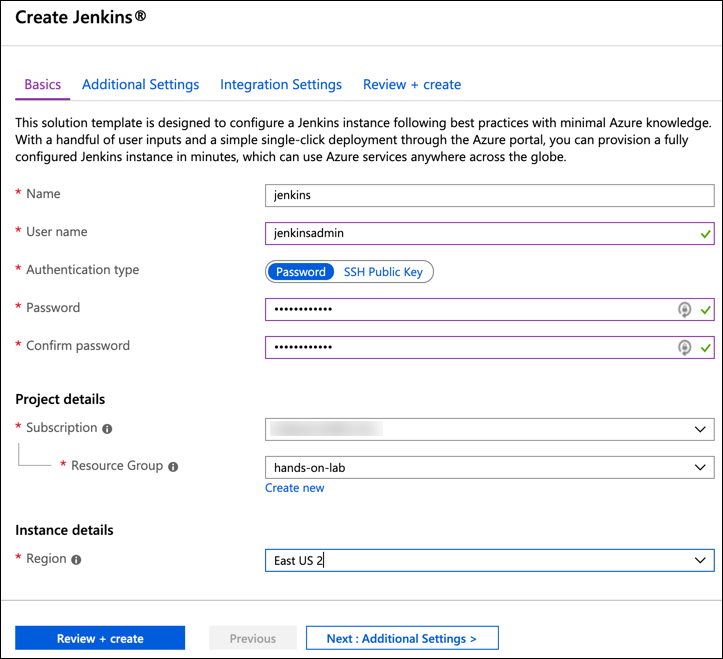
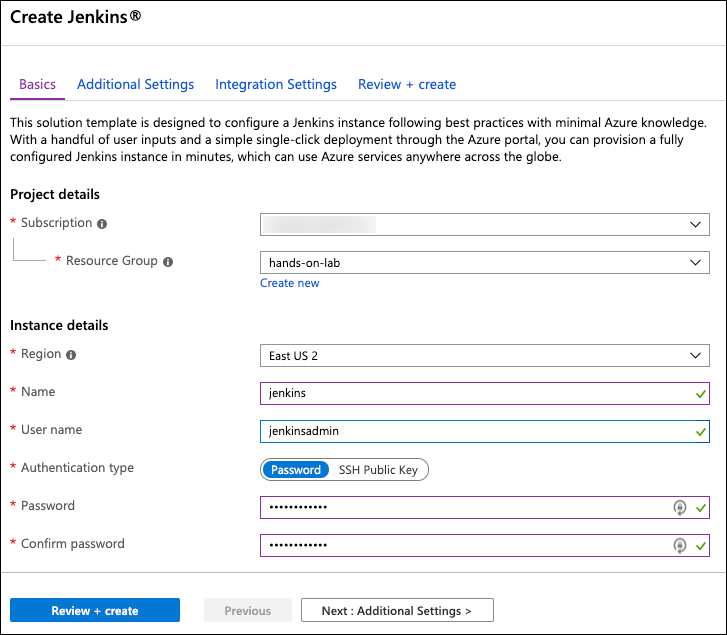
Jenkins pipeline updates

diff --git a/Hands-on lab/HOL step-by step - OSS PaaS and DevOps.md b/Hands-on lab/HOL step-by step - OSS PaaS and DevOps.md
@@ -9,7 +9,7 @@ Hands-on lab step-by-step
 </div>
 
 <div class="MCWHeader3">
-August 2019
+September 2019
 </div>
 
 Information in this document, including URL and other Internet Web site references, is subject to change without notice. Unless otherwise noted, the example companies, organizations, products, domain names, e-mail addresses, logos, people, places, and events depicted herein are fictitious, and no association with any real company, organization, product, domain name, e-mail address, logo, person, place or event is intended or should be inferred. Complying with all applicable copyright laws is the responsibility of the user. Without limiting the rights under copyright, no part of this document may be reproduced, stored in or introduced into a retrieval system, or transmitted in any form or by any means (electronic, mechanical, photocopying, recording, or otherwise), or for any purpose, without the express written permission of Microsoft Corporation.
@@ -52,12 +52,12 @@ Microsoft and the trademarks listed at <https://www.microsoft.com/en-us/legal/in
     - [Task 1: Provision Web App for Containers](#task-1-provision-web-app-for-containers)
     - [Task 2: Navigate to the deployed app](#task-2-navigate-to-the-deployed-app)
   - [Exercise 5: Configure CI/CD pipeline](#exercise-5-configure-cicd-pipeline)
-    - [Task 1: Prepare GitHub account for service integrations](#task-1-prepare-github-account-for-service-integrations)
-    - [Task 2: Open connection to Jenkins](#task-2-open-connection-to-jenkins)
-    - [Task 3: Configure Continuous Integration with Jenkins](#task-3-configure-continuous-integration-with-jenkins)
-    - [Task 4: Trigger CI build](#task-4-trigger-ci-build)
-    - [Task 5: Install Docker on the Jenkins VM](#task-5-install-docker-on-the-jenkins-vm)
-    - [Task 6: Add an Azure service principal for Jenkins](#task-6-add-an-azure-service-principal-for-jenkins)
+    - [Task 1: Enable Continuous Deployment on Web App](#task-1-enable-continuous-deployment-on-web-app)
+    - [Task 2: Prepare GitHub account for service integrations](#task-2-prepare-github-account-for-service-integrations)
+    - [Task 3: Open connection to Jenkins](#task-3-open-connection-to-jenkins)
+    - [Task 4: Configure Continuous Integration with Jenkins](#task-4-configure-continuous-integration-with-jenkins)
+    - [Task 5: Trigger CI build](#task-5-trigger-ci-build)
+    - [Task 6: Install Docker on the Jenkins VM](#task-6-install-docker-on-the-jenkins-vm)
     - [Task 7: Add continuous delivery to Jenkins build job](#task-7-add-continuous-delivery-to-jenkins-build-job)
     - [Task 8: Trigger CI-CD pipeline](#task-8-trigger-ci-cd-pipeline)
   - [Exercise 6: Create Azure Functions for order processing](#exercise-6-create-azure-functions-for-order-processing)
@@ -856,7 +856,17 @@ Duration: 60 minutes
 
 In this exercise, you are going to use Jenkins to implement a continuous integration (CI) and continuous delivery (CD) pipeline to deploy the containerized MERN app to Web App for Containers in Azure.
 
-### Task 1: Prepare GitHub account for service integrations
+### Task 1: Enable Continuous Deployment on Web App
+
+In this task, you will turn Continuous Deployment on for your Web App.
+
+1. Return to your Web App blade in the Azure portal, select **Container settnigs** from the left-hand menu, and then select **On** under Continuous Deployment.
+
+    ![The Web App blade is displayed, with Container settings selected and highlighted on the left, the On button for Continuous Deployment selected and highlighted, and the Save button highlighted.](media/web-app-continuous-deployment.png "Continuous Deployment")
+
+2. Select **Save**.
+
+### Task 2: Prepare GitHub account for service integrations
 
 In this task, you will be adding a Jenkins service integration into your GitHub account. This integration will enable a Jenkins CI build job to be triggered when code is checked in to your GitHub repository.
 
@@ -956,7 +966,7 @@ In this task, you will be adding a Jenkins service integration into your GitHub 
 
 23. The GitHub side of the integration with Jenkins is complete. Next, you will configure Jenkins as part of your CI/CD pipeline.
 
-### Task 2: Open connection to Jenkins
+### Task 3: Open connection to Jenkins
 
 In this task, you will create an SSH tunnel to the Jenkins server, and configure the Jenkins server for use with the MERN application.
 
@@ -1053,7 +1063,7 @@ In this task, you will create an SSH tunnel to the Jenkins server, and configure
 
     ![This is a screenshot of the Save (selected) and Apply buttons.](media/jenkins-global-tool-configuration-save.png "Select Save")
 
-### Task 3: Configure Continuous Integration with Jenkins
+### Task 4: Configure Continuous Integration with Jenkins
 
 In this task, you will set up a simple Jenkins continuous integration (CI) pipeline, which will build the `MCW-OSS-PaaS-and-DevOps` application with every code commit into GitHub.
 
@@ -1102,7 +1112,7 @@ In this task, you will set up a simple Jenkins continuous integration (CI) pipel
 
 10. Your Jenkins CI build job should now be triggered whenever a push is made to your repository.
 
-### Task 4: Trigger CI build
+### Task 5: Trigger CI build
 
 In this task you will commit your pending changes in VS Code to you GitHub repo, and trigger the Jenkins CI build job.
 
@@ -1138,7 +1148,7 @@ In this task you will commit your pending changes in VS Code to you GitHub repo,
 
 9. You have successfully set up your CI pipeline.
 
-### Task 5: Install Docker on the Jenkins VM
+### Task 6: Install Docker on the Jenkins VM
 
 In this task, you will install Docker CE on your Jenkins VM, so it can be used to build images from the build artifacts produced by your CI build.
 
@@ -1227,132 +1237,64 @@ In this task, you will install Docker CE on your Jenkins VM, so it can be used t
     service jenkins restart
     ```
 
-### Task 6: Add an Azure service principal for Jenkins
-
-In this task, you will use the Azure CLI to create an Azure Active Directory (Azure AD) application and service principal (SP) that will provide the Jenkins CD pipeline access to Azure resources. You will grant the SP permissions to the hands-on-lab-SUFFIX resource group.
-
-1. In the [Azure portal](https://portal.azure.com), select the **Cloud Shell** icon in the top toolbar.
-
-    ![The Cloud Shell icon is highlighted on the Azure toolbar.](media/azure-toolbar-cloud-shell.png "Azure Toolbar")
-
-2. Select **PowerShell** in the Cloud Shell pane.
-
-    ![PowerShell is highlighted in the Cloud Shell pane.](media/cloud-shell-powershell.png "Cloud Shell")
-
-3. Next, you will issue a command to create a service principal named **best-for-you-app** and assign it contributor permissions to your **hands-on-lab-SUFFIX** resource group. The command will be in the following format:
-
-    ```bash
-    az ad sp create-for-rbac -n "best-for-you-app" --role contributor --scopes /subscriptions/{SubID}/resourceGroups/{ResourceGroupName}
-    ```
-
-    > **Note**: You will need to replace the `{SubID}` and `{ResourceGroupName}` values.
-
-4. To retrieve the values you need to replace above, navigate to **Resource groups** in the Azure navigation menu, enter "hands-on-lab-SUFFIX" into the filter box, and select the hands-on-lab-SUFFIX resource group from the list.
-
-5. On your hands-on-lab-SUFFIX blade, you will copy two values to paste into the command above:
-
-    - **Resource group name**: Copy the resource group name (hands-on-lab-SUFFIX) and paste it into the command in place of `{ResourceGroupName}`.
-    - **Subscription ID**: In the Essentials area of the Overview blade, locate the Subscription ID, then copy and paste the value into the command in place of the `{SubID}` value.
-
-    ![On the Overview blade of the resource group, Subscription ID is highlighted.](media/resource-group-overview-subscription-id.png "Resource group overview blade")
-
-6. Copy and paste the updated `az ad sp create-for-rbac` command at the Cloud Shell prompt and press `Enter`. The command should be similar to the following, with your subscription ID and resource group name:
-
-    ```bash
-    az ad sp create-for-rbac -n "best-for-you-app" --role contributor --scopes /subscriptions/30fc406c-c745-XXXX-XXXX-XXXXXXXXXXXX/resourceGroups/hands-on-lab-SUFFIX
-    ```
-
-    ![The az ad sp create-for-rbac command is entered into the Cloud Shell, and the output of the command is displayed.](media/azure-cli-create-sp.png "Azure CLI")
-
-7. Copy the output from the command into a text editor, as you will need it in the next task. The output should be similar to:
-
-    ```json
-    {
-        "appId": "24c91e7d-4568-4f48-bca5-af3fc75e5481",
-        "displayName": "best-for-you-app",
-        "name": "http://best-for-you-app",
-        "password": "389bbb6f-731a-449a-a438-65a0f485ec8b",
-        "tenant": "9c37bff0-cd20-XXXX-XXXX-XXXXXXXXXXXX"
-    }
-    ```
-
-8. To verify the role assignment, select **Access control (IAM)** from the left-hand menu of the **hands-on-lab-SUFFIX** resource group blade, and then select the **Role assignments** tab and locate **best-for-you-app** under the CONTRIBUTOR role.
-
-    ![The Role assignments tab is displayed, with best-for-you-app highlighted under CONTRIBUTOR in the list.](media/rg-hands-on-lab-role-assignments.png "Role assignments")
-
 ### Task 7: Add continuous delivery to Jenkins build job
 
 In this task, you will use the [Azure App Service Jenkins plugin](https://plugins.jenkins.io/azure-app-service) to add continuous deployment (CD) to the Jenkins build pipeline. This will use a post-build action to create a new Docker image from the build, push that image to your Azure Container Registry, and deploy the image to your Web App for Containers instance. This post-build action will run under the credentials of the SP you created in the previous task.
 
-1. Return to your **Jenkins** dashboard, and select the **best-for-you-build** project.
+1. In a new browser window, navigate to your Container registry in the [Azure portal](https://portal.azure.com) by selecting **Resource groups** from the Azure navigation menu, selecting the **hands-on-lab-SUFFIX** resource group from the list, and then selecting the **Container registry** resource.
+
+2. On the Container registry blade, select **Access keys** from the left-hand menu and leave this page open for the following steps.
+
+3. Return to your **Jenkins** dashboard, and select the **best-for-you-build** project.
 
     ![The best-for-you-build project is highlighted on the Jenkins dashboard.](media/jenkins-dashboard-best-for-you-build.png "Jenkins dashboard")
 
-2. Select **Configure** from the left-hand menu.
+4. Select **Configure** from the left-hand menu.
 
     ![Configure is highlighted in the left-hand menu.](media/jenkins-project-configure.png "Jenkins left-hand menu")
 
-3. On the configure screen, scroll down to Post-build Actions, select **Add post-build action** and then select **Publish an Azure Web App**.
+5. On the configure screen, scroll down to the Build section and select the Execute shell block you created previously.
 
-    ![In the Jenkins post-build action menu, Publish an Azure Web App is highlighted.](media/jenkins-post-build-action-publish-azure-web-app.png "Jenkins post-build action menu")
+6. Return to the Container registry Access keys blade in the Azure portal, copy the values specified below and paste them into the appropriate values in the `docker build` command below.
 
-4. In the Publish an Azure Web App section that appears, select **Add** and then **Jenkins** next to **Azure Credentials**.
-
-    ![In the Publish an Azure Web App post-build action, Add Azure credentials is highlighted.](media/jenkins-post-build-action-publish-azure-web-app-credentials-add.png "Add Azure Credentials")
-
-5. On the Jenkins Credentials Provider screen, enter the following:
-
-    - **Domain**: Leave set to Global credentials (unrestricted).
-    - **Kind**: Select **Microsoft Azure Service Principal**.
-    - **Scope**: Leave set to Global (Jenkins, nodes, items, all child items, etc.).
-    - **Subscription ID**: Enter your Azure subscription ID which you copied above from the hands-on-lab-SUFFIX Resource group blade.
-    - **Client ID**: Enter the **appId** value from the Cloud shell output you copied into the text editor.
-    - **Client Secret**: Enter the **password** value from the Cloud shell output you copied into the text editor.
-    - **Tenant ID**: Enter the **tenant** value from the Cloud shell output you copied into the text editor.
-    - **Azure Environment**: Leave set to Azure.
-    - **ID**: Enter jenkinsSp.
-    - **Description** Leave blank, or enter a description if you like.
-    - Select **Verify Service Principal** and ensure you see the _Successfully verified the Microsoft Azure Service Principal_ message.
-
-    ![On the Jenkins Credentials Provider screen, the values specified above are entered into the appropriate fields.](media/jenkins-project-credentials.png "Jenkins Credentials Provider")
-
-6. Select **Add**.
-
-7. Back in the Publish an Azure Web App of the post-build actions tab, select the newly created jenkinsSp credentials in the Azure Credentials list.
-
-    ![The newly created jenkinsSp credentials are selected in the Azure Credentials box of the Azure Profile Configuration section.](media/jenkins-azure-profile-configuration.png "Azure Profile Configuration")
-
-8. In the App configuration section:
-
-    - **Resource Group Name**: Select the hands-on-lab-SUFFIX resource group.
-    - **App Name**: Select best-for-you-app.
-    - Select **Publish via Docker**.
-    - **Dockerfile path**: Leave set to **/Dockerfile.
-    - **Docker registry URL**: Enter your Azure Container Registry's Login server value, which you can retrieve from the Access keys blade in the Azure portal.
-    - **Registry credentials**: Select **Add** and then **Jenkins**, and in the Add Credentials dialog enter the following:
-        - **Domain**: Leave set to Global credentials (unrestricted).
-        - **Kind**: Set to Username with password.
-        - **Scope**: Leave set to Global (Jenkins, nodes, items, all child items, etc.).
-        - **Username**: Enter the Username value for your Azure Container Registry, which you can retrieve from the Access keys blade of your ACR in the Azure portal.
-        - **Password**: Enter the password value for your Azure Container Registry, which you can retrieve from the Access keys blade of your ACR in the Azure portal.
+    - **Login server**: Copy the Azure Container Registry's Login server value, and paste into the command below as the `ACR_URL` value.
+    - **Username**: Copy the Username value for your Azure Container Registry, and paste into the command below as the `ACR_USERNAME` value.
+    - **Password**: Enter the password value for your Azure Container Registry, and paste into the command below as the `ACR_PASSWORD` value.
 
         ![In the Container Registry Access keys blade, ](media/azure-container-registry-access-keys.png "Container Registry Access keys")
 
-        - **ID**: Enter acrCreds.
-        - **Description**: Leave blank, or enter a description if you like.
-        - Select **Add**.
+    ```bash
+    ACR_URL="<your-container-registry-login-server>"
+    ACR_USERNAME="<your-container-registry-username>"
+    ACR_PASSWORD="<your-container-registry-password>"
 
-        ![In the Jenkins Credential Provider dialog, the values specified above are entered into the appropriate fields.](media/jenkins-credentials-provider-username-with-password.png "Add credentials")
+    docker build --tag "${ACR_URL}/best-for-you-organics:latest" .
+    docker login $ACR_URL --username $ACR_USERNAME --password $ACR_PASSWORD
+    docker push "${ACR_URL}/best-for-you-organics:latest"
+    ```
 
-    - Select the newly added acrCreds credentials from the Registry credentials list (will be listed as `[the name of your registry]/******`).
-    - Select the **Advanced** button.
-    - **Docker Image**: Leave blank.
-    - **Docker Image Tag**: Leave blank.
-    - Select **Verify Docker Configuration** and ensure the _Docker registry configuration verified_ message is displayed.
+7. You final command should look similar to the following:
 
-        ![In the Publish an Azure Web App post-build action section, the values specified above are entered into the appropriate fields.](media/jenkins-publish-an-azure-web-app.png "Publish an Azure Web App post-build action")
+    ```bash
+    ACR_URL="bestforyouregistrykb.azurecr.io"
+    ACR_USERNAME="bestforyouregistrykb"
+    ACR_PASSWORD="uddDqqTdBdxaI=QMmTqTfAg75cJHnfcj"
+
+    docker build --tag "${ACR_URL}/best-for-you-organics:latest" .
+    docker login $ACR_URL --username $ACR_USERNAME --password $ACR_PASSWORD
+    docker push "${ACR_URL}/best-for-you-organics:latest"
+    ```
+
+8. Copy the completed command text and paste it below the `npm run build` line within the Execute shell Command box. The Execute shell command should now look similar to the following:
+
+    ![The command above is appended to the execute shell command.](media/jenkins-execute-shell-command-cd.png "Execute shell")
+
+
+    ![In the Jenkins post-build action menu, Publish an Azure Web App is highlighted.](media/jenkins-post-build-action-publish-azure-web-app.png "Jenkins post-build action menu")
 
 9. Select **Save**.
+
+    ![This is a screenshot of the Save (selected) and Apply buttons.](media/jenkins-save.png "Select Save")
 
 ### Task 8: Trigger CI-CD pipeline
 
@@ -1388,7 +1330,7 @@ In this task, you will commit changes to the `MCW-OSS-PaaS-and-DevOps` starter a
 
 8. When the deployment is complete, you can verify the changes deployed successfully by navigating to your App Service instance in the Azure portal, and selecting the URL on the overview blade. The deployment of the container can take several minutes to complete so refreshes may take a few minutes to show the new header.
 
-    >**Tip**: It may help to open the app in an Incognito or InPrivate browser window, so you don't have the old page cached.
+    >**Tip**: It may help to open the app in an Incognito or InPrivate browser window, as the old page may be cached.
 
 9. You should see the home page, with a new header above the three plans on the page.
 

diff --git a/Hands-on lab/Before the HOL.md b/Hands-on lab/Before the HOL.md
@@ -9,7 +9,7 @@ Before the hands-on lab setup guide
 </div>
 
 <div class="MCWHeader3">
-August 2019
+September 2019
 </div>
 
 Information in this document, including URL and other Internet Web site references, is subject to change without notice. Unless otherwise noted, the example companies, organizations, products, domain names, e-mail addresses, logos, people, places, and events depicted herein are fictitious, and no association with any real company, organization, product, domain name, e-mail address, logo, person, place or event is intended or should be inferred. Complying with all applicable copyright laws is the responsibility of the user. Without limiting the rights under copyright, no part of this document may be reproduced, stored in or introduced into a retrieval system, or transmitted in any form or by any means (electronic, mechanical, photocopying, recording, or otherwise), or for any purpose, without the express written permission of Microsoft Corporation.
@@ -118,13 +118,13 @@ In this task, you will provision an Azure Linux VM, which will serve as your Jen
 
 2. On the **Create Jenkins Basics** tab, enter the following:
 
+    - **Subscription:** Select the subscription you are using for this hands-on lab.
+    - **Resource group:** Select the hands-on-lab-SUFFIX resource group from the list.
+    - **Region:** Select the region you are using for resources in this hands-on lab.
     - **Name:** Enter **Jenkins**.
     - **User name:** Enter **jenkinsadmin**.
     - **Authentication type:** Select **Password**
     - **Password:** Enter **Password.1!!**
-    - **Subscription:** Select the subscription you are using for this hands-on lab.
-    - **Resource group:** Select the hands-on-lab-SUFFIX resource group from the list.
-    - **Region:** Select the region you are using for resources in this hands-on lab.
 
     ![The Create Jenkins Basic tab is displayed and the information above is entered into the form.](media/create-jenkins-basics.png "Configure settings on the Create Jenkins Basics blade")
 
@@ -133,7 +133,8 @@ In this task, you will provision an Azure Linux VM, which will serve as your Jen
     - **Size**: Accept the default VM size of **Standard DS2 v2**.
     - **VM disk type**: Select **SSD**.
     - **Virtual network**: Accept the default value of **(new) jenkins-vnet**.
-    - **Subnets**: Accept the default value of **(new) jenkins (10.x.0.0/24)**.
+    - **Subnet**: Accept the default value of **(new) jenkins (10.x.0.0/24)**.
+    - **Public IP address**: Accept the default value of **(new) jenkins-pip**.
     - **Domain name label**: Enter a globally unique value, such as **jenkins-SUFFIX**.
     - **Jenkins release type**: Select **LTS**.
     - **JDK Type**: Select **Zulu**.

diff --git a/Whiteboard design session/WDS student guide - OSS PaaS and DevOps.md b/Whiteboard design session/WDS student guide - OSS PaaS and DevOps.md
@@ -10,7 +10,7 @@ Whiteboard design session student guide
 </div>
 
 <div class="MCWHeader3">
-April 2019
+September 2019
 </div>
 
 Information in this document, including URL and other Internet Web site references, is subject to change without notice. Unless otherwise noted, the example companies, organizations, products, domain names, e-mail addresses, logos, people, places, and events depicted herein are fictitious, and no association with any real company, organization, product, domain name, e-mail address, logo, person, place or event is intended or should be inferred. Complying with all applicable copyright laws is the responsibility of the user. Without limiting the rights under copyright, no part of this document may be reproduced, stored in or introduced into a retrieval system, or transmitted in any form or by any means (electronic, mechanical, photocopying, recording, or otherwise), or for any purpose, without the express written permission of Microsoft Corporation.

diff --git a/Whiteboard design session/WDS trainer guide - OSS PaaS and DevOps.md b/Whiteboard design session/WDS trainer guide - OSS PaaS and DevOps.md
@@ -9,7 +9,7 @@ Whiteboard design session trainer guide
 </div>
 
 <div class="MCWHeader3">
-April 2019
+September 2019
 </div>
 
 Information in this document, including URL and other Internet Web site references, is subject to change without notice. Unless otherwise noted, the example companies, organizations, products, domain names, e-mail addresses, logos, people, places, and events depicted herein are fictitious, and no association with any real company, organization, product, domain name, e-mail address, logo, person, place or event is intended or should be inferred. Complying with all applicable copyright laws is the responsibility of the user. Without limiting the rights under copyright, no part of this document may be reproduced, stored in or introduced into a retrieval system, or transmitted in any form or by any means (electronic, mechanical, photocopying, recording, or otherwise), or for any purpose, without the express written permission of Microsoft Corporation.
